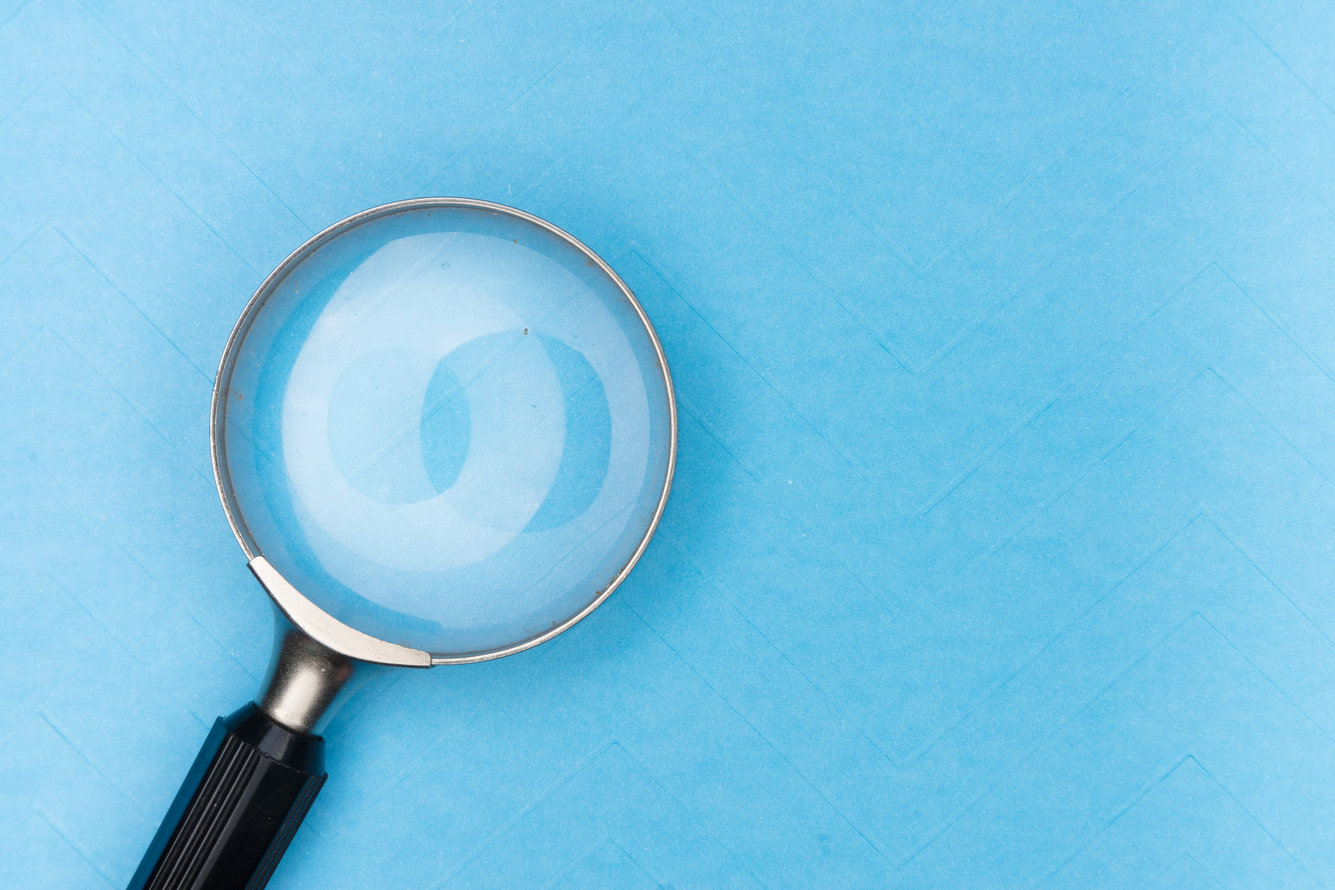
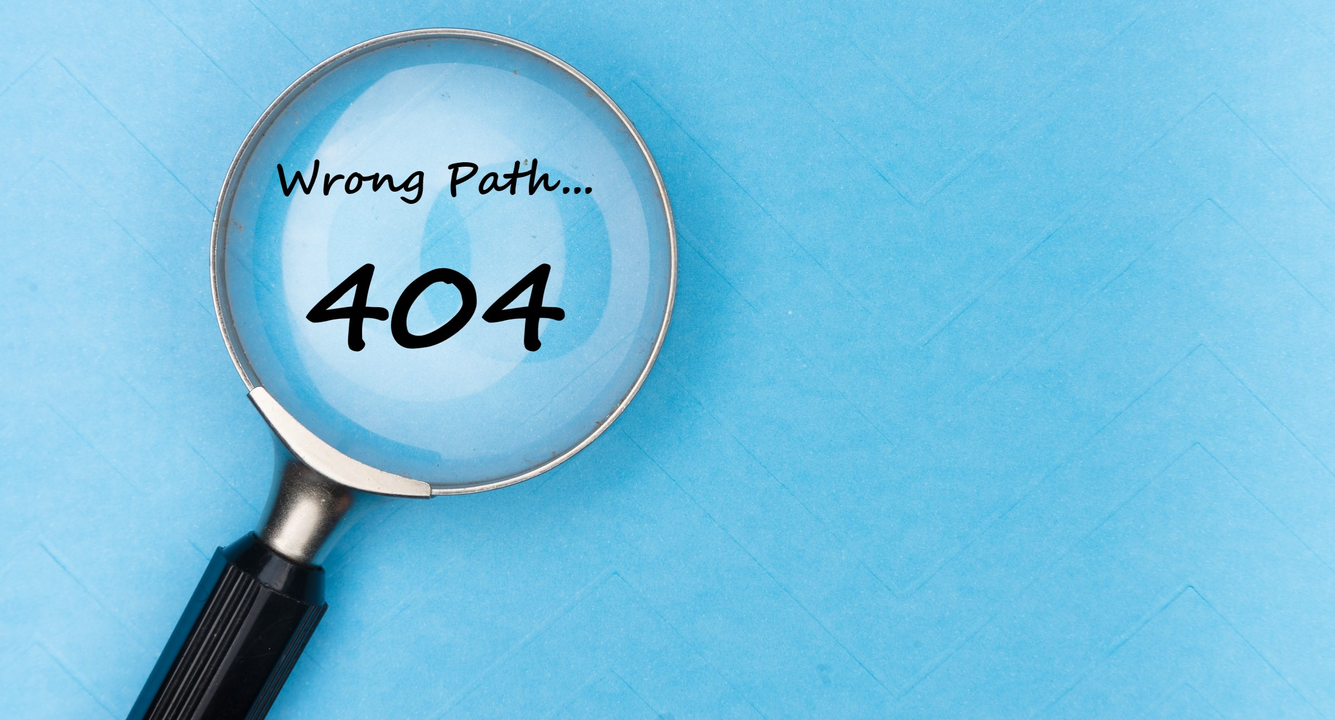
...

diff --git a/src/Components/SharedArea/Page404/Page404.css b/src/Components/SharedArea/Page404/Page404.css
@@ -1,3 +1,7 @@
 .Page404 {
-	color: red;
+    background: url('../../../Assets/Images/404.jpg') no-repeat center center fixed; 
+    -webkit-background-size: contain;
+    -moz-background-size: contain;
+    -o-background-size: contain;
+    background-size: contain;
 }

diff --git a/src/Components/SharedArea/Page404/Page404.tsx b/src/Components/SharedArea/Page404/Page404.tsx
@@ -3,7 +3,6 @@ import "./Page404.css";
 function Page404(): JSX.Element {
     return (
         <div className="Page404">
-            <h1>it's not here... 404 404 404 404 404 404 404...</h1>
         </div>
     );
 }
